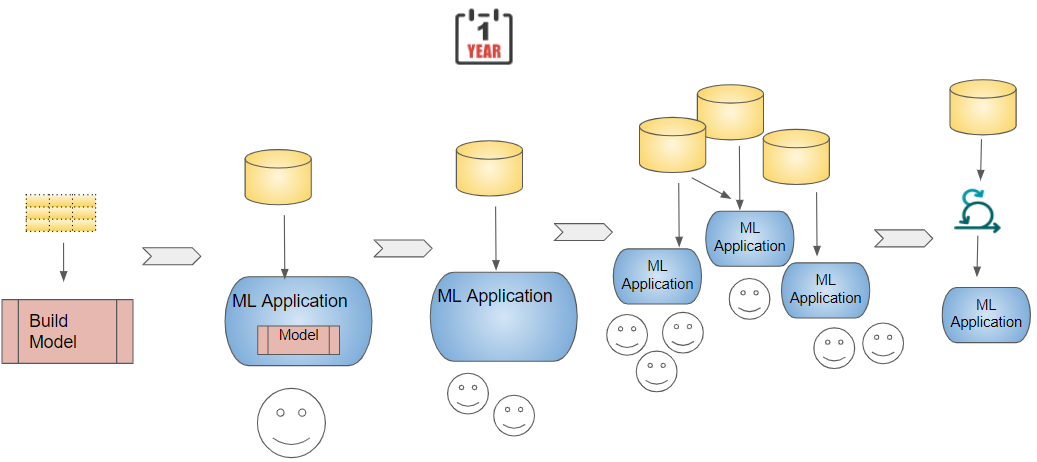
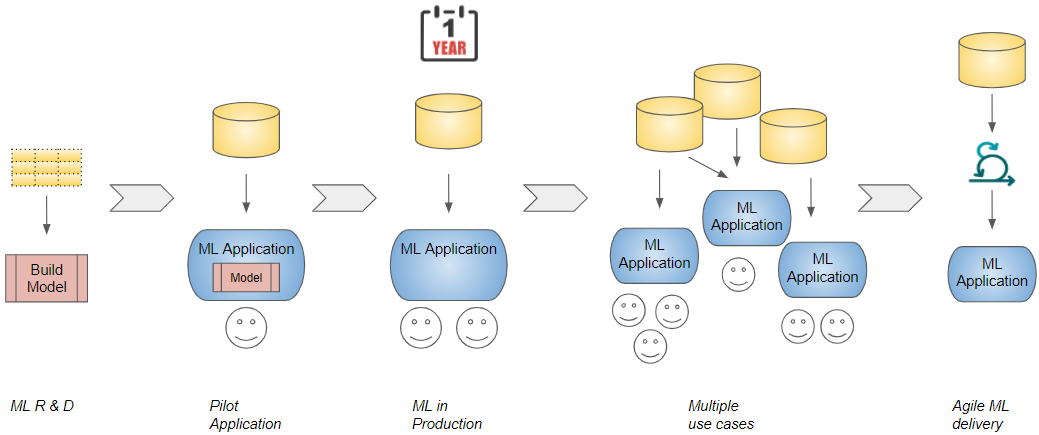
Enterprise ML draft 2

diff --git a/_posts/2021-06-16-Enterprise-ML.md b/_posts/2021-06-16-Enterprise-ML.md
@@ -1,6 +1,6 @@
 ---
 layout: post
-title: Enterprise ML
+title: Enterprise ML - What's different about building and training a "real world" model
 subtitle: A Gentle Guide to Enterprise, in Plain English
 imagecaption: Photo by [](https://unsplash.com/@hirmin) on [Unsplash](https://unsplash.com) 
 categories: [ Neural, tutorial ]
@@ -10,62 +10,69 @@ image: https://images.unsplash.com/photo-1571156425562-12341e7c9aae?w=1200
 ---
 
 ## What is Enterprise ML?
-What does it take to deliver an machine learning (ML) application that provides real business value to your company? 
+What does it take to deliver a machine learning (ML) application that provides real business value to your company?
 
-After you have proved the substantial benefit that ML can bring to the company, how do you expand that effort to additional use cases, and really start to fulfill the promise of ML?
+![]({{ site.baseurl }}/assets/images/EnterpriseML/Enterprise-1.png)
+*Enterprise ML (Image by Author)*
 
-And once you've done that how do you scale up ML across the organization and streamline the ML development and delivery process to standardize ML initiatives, share and reuse work and iterate quickly?
+Once you've done that and proved the substantial benefit that ML can bring to the company, how do you expand that effort to additional use cases, and really start to fulfill the promise of ML?
+
+And then, how do you scale up ML across the organization and streamline the ML development and delivery process to standardize ML initiatives, share and reuse work and iterate quickly?
 
 What are the best practices that some of the world's leading tech companies have adopted? 
 
-Over a series of articles, my goal is to explore these questions and understand the challenges and learnings along the way.
+Over a series of articles, my goal is to explore these fascinating questions and understand the challenges and learnings along the way.
 - How does one train a ML model in the "real world", and how is that different from building a ML prototype "in the lab"?
 - How do you take that model to production and keep it running at peak performance month after month?
 - What infrastructure, system architecture and tooling has been put in place by companies that are at the forefront of this trend?
 - How do you build data pipelines to extract value from the vast amount of data collected at your company and make it available for your ML and Analytics use cases?
 
-In this article we will dive deeper into the first and crucial step on which all other steps depend, of building and training a ML model.
+In this first article we will dive deeper into the crucial step of building and training an ML model, because that sits at the heart of this process.
 
-But before we do that, let's first set the context and get a high-level overview of an organization's overall ML journey.
+In order to do that, let's first set the context and get a high-level overview of an organization's overall ML journey.
 
 ## Maturing along the ML journey
-Typically, most companies that are able to successfully leverage ML go through various stages of maturity.
+Let's say a company has gathered a rich set of data and wants to make use of machine learning so that it noticeably improves the experience of its customers or impacts its business operations in a major way.
 
-Let's say a company has gathered a rich set of data and wants to make use of nachine learning (ML) so that it noticeably improves the experience of your customers or impacts your business operations in a major way.
+Typically, most companies that are able to successfully leverage ML go through various stages of maturity. 
 
 ![]({{ site.baseurl }}/assets/images/EnterpriseML/Journey-1.png)
 *ML journey (Image by Author)*
 
-- Identifies a problem and defines the business objectives. Starts R&D activity to develop an ML model.
-- First model trained. Pilot application ready in production.
-- Early stage - handful of models in production for a year or two
-- Intermediate stage - several models in production for a variety of business scenarios across multiple departments
-- Advanced - agile ML application development, standardized tools and processes for quick experimentation and delivery.
+- Starting Out - Identify a problem and define the business objectives. Start R&D activity to develop an ML model.
+- Pilot - First model trained and application ready in production.
+- Early stage - Handful of models in production for a year or two.
+- Intermediate stage - Several models in production for a variety of business scenarios across multiple departments.
+- Advanced - Agile ML application development, standardized tools and processes for quick experimentation and delivery.
 
-The reason that we are even discussing this topic of "real world ML" is that this is a hard road. So many companies get stuck at the very first step and are not able to extract tangible business value from their ML investments.
+But this is a hard road to follow. Many companies get stuck at the very first stage and are not able to extract tangible business value from their ML investments.
 
-Now that we've talked about the long-term journey, let's narrow in on a single ML application along this path, and look at the steps involved end-to-end.
+Now that we've talked about the long-term journey at a high level, let's narrow in on a single ML project along this path, and look at the steps involved end-to-end.
 
 ## ML Application Lifecycle and Roles
-Delivering an ML application involves several tasks. Over the last few years a number of specialized roles have popped up in the industry to perform these tasks.
+Delivering an ML application involves several tasks. Over the last few years a number of specialized roles have cropped up in the industry to perform these tasks.
 
-Note that this area is still evolving and that there is no standard terminology. Different companies probably have slightly different interpretations for the tasks as well as the roles. The boundary between these roles isn't sharply defined. In some cases, the same person might perform all of these responsibilities. 
+Note that this area is still evolving and that this terminology is not standard. If you went to a few different companies and asked them about these tasks and these roles you'll probably get slightly different interpretations. The boundary between these roles is somewhat fuzzy. In some cases, the same person might perform all of these responsibilities. 
 
-However these concepts are starting to crystallize and it is still helpful to get a broad sense of the process.
+However some of these concepts are starting to crystallize. So it is still useful for us to get a broad sense of the process.
 
 ![]({{ site.baseurl }}/assets/images/EnterpriseML/Lifecycle-1.png)
 *ML Application Lifecycle (Image by Author)*
 
-Data Scientist, Data Engineer, etc
+- The process starts with the Data Scientist building and training a model, often using a snapshot of the training data.
+- The Data Engineer then sets up the data pipeline to fetch the training data from the company's Analytics store. The pipeline might also populate the Analytics store from the operational data sources.
+- The trained model then has to be integrated with the business application that is used by end users. It obtains the input data that the model consumes to make its predictions. The predicted results are then presented back to the end users. This is done by the Application Developer or Product Engineer.
+- The ML Engineer deploys the ML application into production.
+- Finally, ML Ops is responsible for keeping the application running in production and monitoring its performance.
 
-As we just saw, the first stage in the application lifecycle, is to build and train the ML model. This is often the most "glamorous" and most technically challenging part of the project. Let's zoom in to see what is involved in building a ML model.
+As we just saw, the first stage in the application lifecycle is to build and train the ML model. With the current buzz around Data Science and ML, this is often the most "glamorous" and most technically challenging part of the project. Let's zoom in to see what it involves.
 
 ## How is training a "real world" ML model different from a "demo" ML project?
-There are no shortage of resources, tutorials, online courses and projects on the Internet that cover every possible technical aspect of building a machine learning or deep learning model for a range of applications. However, the majority of them cover building ML models in a very controlled environment in the lab, so to speak.
+There is no shortage of resources, tutorials, online courses and projects on the Internet that cover every possible technical aspect of building a machine learning or deep learning model for a range of applications. However, the majority of them cover building ML models in a very controlled "demo" environment.
 
-How does that differ from what you will encounter in the "real world"? By far the biggest difference has to do with access to a labelled dataset. Lab projects invariably start with a carefully curated dataset that has already been prepared for you. The data is cleaned, and neatly labelled. The problem is neatly bounded because the fields in the dataset have been selected and scoped.
+How does that differ from what you will encounter in the "real world"? By far the biggest difference has to do with access to a labelled dataset. Demo projects invariably start with a carefully curated dataset that has already been prepared for you. The data is already cleaned and systematically labelled. The problem is neatly bounded because the fields in the dataset have been selected and scoped.
 
-In a real project, on the other hand, you start with a blank slate. Preparing your dataset becomes one of the most time-consuming aspects of the project. You have to figure out answers to a number of questions: 
+In a real project, on the other hand, you start with a blank slate. Preparing your dataset becomes one of the most demanding aspects of the project. You have to tackle a number of tricky issues: 
 
 - What data sources are available?
 - How do we query and extract the data?
@@ -78,48 +85,48 @@ In a real project, on the other hand, you start with a blank slate. Preparing yo
 - How much training data do I need?
 - How can I augment my data?
 
-Secondly, in a lab project, the emphasis is often on squeezing out every last drop of accuracy for your model, or to get state-of-the-art results. Often, if you're competing on Kaggle, a difference on the metric score between 79.0345 and 79.0312 can mean hundreds of ranks on the leaderboard. In a real world project, even a percent or two improvement of the metric is probably far less crucial. The accuracy of your model is probably only one factor in the overall business outcome. It is often far more important to deliver a working solution quickly, with a noticeable customer improvement, get feedback and iterate quickly.
+Secondly, in a demo project, the emphasis is often on squeezing out every last drop of accuracy for your model, or to get state-of-the-art results. Often, if you're competing on Kaggle, a difference on the metric score between 79.0345 and 79.0312 can mean hundreds of ranks on the leaderboard. 
+
+In a real world project, spending a few more weeks to obtain a percent or two improvement of the metric may not be worth it. The accuracy of your model is probably only one factor in the overall business outcome. It is often far more important to deliver a working solution quickly, with a noticeable customer improvement, get feedback and iterate quickly.
 
 ## Model Building and Training Workflow
-Let's say that the problem to be solved and the business objective is clear, and you have a beginning hypothesis for how to tackle it. Typically, there are several steps involved in creating your ML model.
+Let's say that the problem to be solved and the business objective is clear, and you have an initial hypothesis for how to tackle it. Typically, there are several steps involved in creating your ML model.
 
 ![]({{ site.baseurl }}/assets/images/EnterpriseML/Workflow-1.png)
 *ML Model Workflow (Image by Author)*
 
 - **Data Discovery**: You might start by browsing your data sources to discover the data set you want to use. Importantly you also need to identify what data will be used as the target labels.
 - **Data Cleaning**: The data is probably messy and requires verification and cleaning. There might be missing or invalid values, outliers, duplicates and so on. Some fields might have useless values eg. A field like "Churn Reason" has a lot of values that simply say "Unknown". Some values may not be formatted correctly eg. numbers, dates and so on. If you're dealing with images, you might have blurry pictures, images of different sizes and resolutions, inadequate lighting, photos taken from inappropriate angles and so on.
-- **Exploratory data analysis**: Look at the data distributions to identify patterns and relationships between the fields. You might identify seasonal trends or slice the data into relevant segments etc. 
-- **Feature Engineering**: Derive new features by enriching some fields, performing aggregates or rollups, doing calculations by combining multiple fields and so on. For instance, you might use a date field to extract features for the number of days since the beginning of the month or year, whether it is a holiday etc.
+- **Exploratory data analysis (EDA)**: Look at the data distributions to identify patterns and relationships between the fields. You might identify seasonal trends or slice the data into relevant segments etc. 
+- **Feature Engineering**: Derive new features by enriching some fields, performing aggregates or rollups, doing calculations by combining multiple fields and so on. For instance, you might use a date field to extract new features for the number of days since the beginning of the month or year, whether it is a holiday etc.
 - **Feature Selection**: Identify the features that are most useful to the model for predicting results. Remove features that add no value to the model.
-- **Model Selection**: You might try out several different machine learning algorithms or deep learning architectures.
-- **Hyperparameter Tuning**: For each model there are several hyperparameter values to be optimized.
+- **Model Selection**: You might try out several different machine learning algorithms or deep learning architectures, to find the one with the best performance.
+- **Hyperparameter Tuning**: For each model there are several hyperparameter values to be optimized eg. the number of hidden layers and sizes of each layer in a neural network.
 - **Model Training**: Pick a model, select some data features, try some hyperparameters and train the model.
 - **Model Evaluation**: Test the model against the validation data set. Track and compare the metrics for each model.
-- **Inference**: After a promising potential model (along with features and hyperparams) has been identified, build the logic to make predictions on unseen data.
-- **Repeat, repeat and repeat**: Change something, try a different idea and keep doing this many, many times. 
+- **Inference**: After a promising potential model has been identified (along with features and hyperparams), build the logic to make predictions on unseen data.
+- **Repeat, repeat, and repeat again**: Change something, try a different idea and keep doing this many, many times till you find something that works well. 
 
-## Model Training Challenges
-Building a ML model is hard. Unlike most software development projects, where you know how to solve the problem at hand, an ML project has a lot of uncertainty and unknowns. In the beginning, you don't know what the solution is, whether it is even feasible or how long it might take. Estimating and planning timelines is highly inaccurate.
+## Model Building Challenges
+Building an ML model is tough. Unlike most software development projects, where you know how to solve the problem at hand, an ML project has a lot of uncertainty and unknowns. In the beginning, you may not know what the solution is, whether it is even feasible or how long it might take. Estimating and planning timelines is highly inaccurate.
 
-The work is very researchy and iterative, and requires a lot of experimental trial and error.
+The work is very researchy and iterative, and requires a lot of experimental trial and error. It is imperative that you keep meticulous notes to track each of your trials, the data features and hyperparameters that were used, and the metrics that were obtained. That will help you to go back and identify promising models for further investigation, and to be able to re-run tests and reproduce results.
 
-Often, ML models are black-boxes. When a model fails to produce good results and metrics you might not be sure exactly why it failed. In many cases, the fix is to simply make some guesses, try something different and hope that it improves performance.
+Often, ML models are black-boxes. When a model fails to produce the desired results you might not be sure exactly why it failed. In many cases, the fix is to simply make some guesses, try something different and hope that it improves performance.
 
-Development is usually done in Jupyter notebooks by a Data Scientist, or a team of Data Scientists. The model is trained using a static dump of your dataset in CSV or Excel files. Training is run on the developer's local laptop, or perhaps on a VM in the cloud. 
+## Finally the model is ready! Now the hard work really begins...
+After several weeks or months of work, you finally solve the problem, and have a model that is performing well in a development setting.
 
-In other words, development of the model is fairly standalone and isolated from the company's application and data pipeline.
+However, as we will see in the next phase, this is only a very small part of the way to your destination. Bigger challenges and pitfalls lie ahead.
 
-After several weeks or months of work, you finally solve the problem, and have a model that is performing well "in the lab", so to speak.
+Model development is usually done in Jupyter notebooks by a Data Scientist, or a team of Data Scientists. It is likely that the model is trained using a static snapshot of the dataset in CSV or Excel files. Training is run on the developer's local laptop, or perhaps on a VM in the cloud. 
 
-However, as we will see in the next phase, this is only a very small part of the way to your destination. And bigger challenges and pitfalls lie ahead.
-
-Now that we know what we're including in the "Model Building" phase, we are ready to look at what the "Everything Else" phase is.
+In other words, development of the model is fairly standalone and isolated from the company's application and data pipeline. The hard work of integrating the model and deploying it in the production environment is about to begin...
 
 ## Conclusion
+As we've just seen, Enterprise ML is a journey, and like all journeys, it begins with a first step, that of building your ML model. In many ways, this part is both technically complex and exciting. 
 
-This is a journey, and like all journeys, it begins with a first step, of building your ML model. In many ways, this is the most technically challenging and exciting part. However, as we'll later see, it is not this phase, but the next one that often trips up most projects and prevents them from seeing the light of day. 
-
-Hopefully, this gives you an understanding of .....
+However, it is not this stage, but the next one that often trips up many projects and prevents them from seeing the light of day. Now that we have a sense of the "Model Building" phase, we are ready to look at the "Putting the Model Into Production" phase in the next article.
 
 And finally, if you liked this article, you might also enjoy my other series on Transformers as well as Audio Deep Learning.
 
